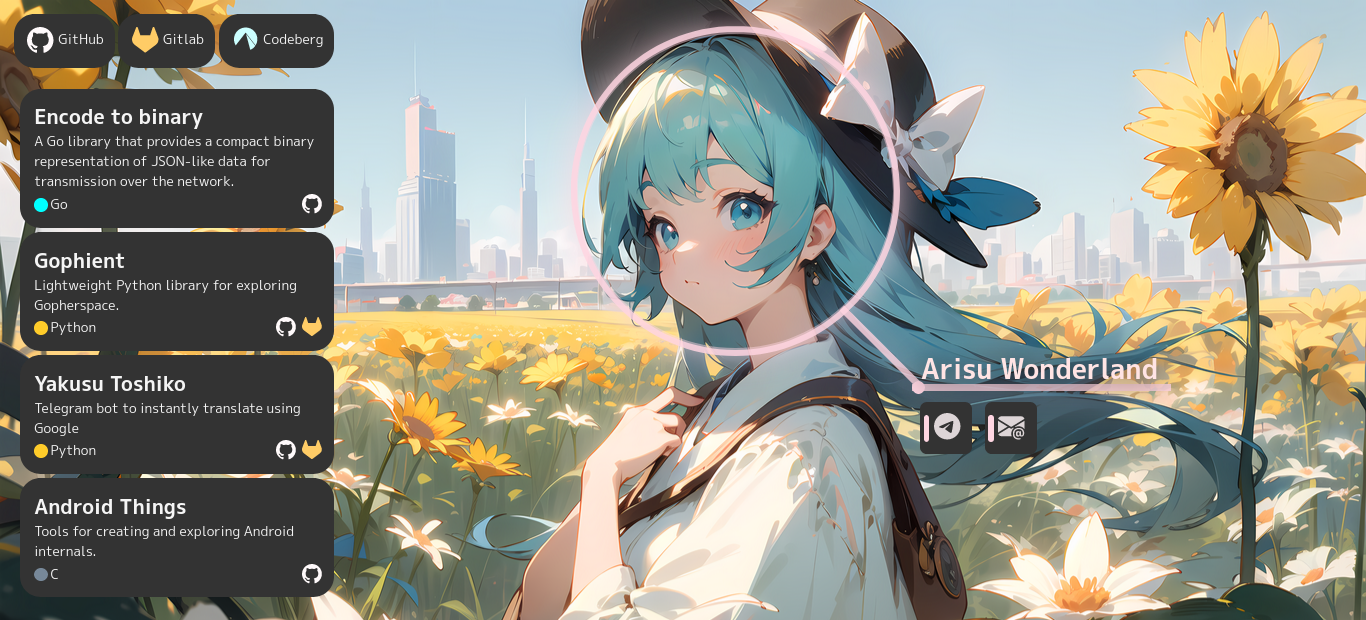
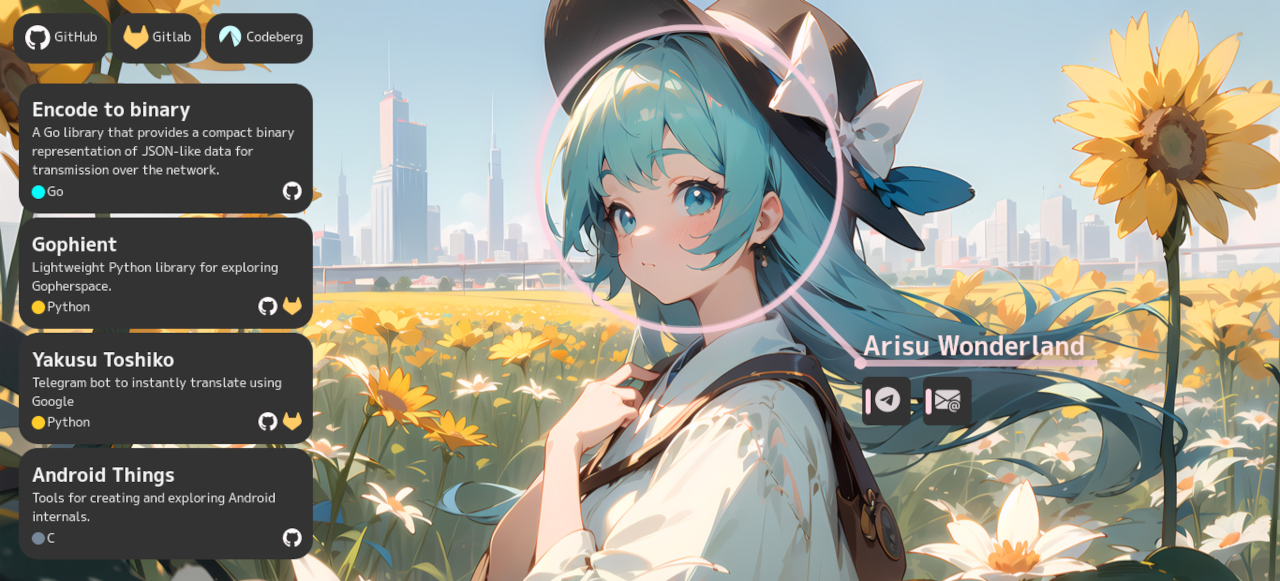
Support mobile devices

diff --git a/index.html b/index.html
@@ -24,6 +24,7 @@ along with this program.  If not, see <https://www.gnu.org/licenses/>.
         <meta http-equiv="X-UA-Compatible" content="ie=edge">
         <title>Arisu Wonderland</title>
         <link rel="stylesheet" href="static/css/index.sass">
+        <link rel="stylesheet" href="static/css/mobile.sass">
         <link rel="apple-touch-icon" sizes="180x180" href="/apple-touch-icon.png?v=2">
         <link rel="icon" type="image/png" sizes="32x32" href="/favicon-32x32.png?v=2">
         <link rel="icon" type="image/png" sizes="16x16" href="/favicon-16x16.png?v=2">
@@ -36,20 +37,26 @@ along with this program.  If not, see <https://www.gnu.org/licenses/>.
         <meta name="theme-color" content="#603cba">
     </head>
     <body>
+        <svg id="arichr-glyph-cc-by-sa" width="125.333" height="100" viewBox="-1.6 -1.6 97 79">
+            <defs>
+                <filter id="glyph-filter" x="-.0847" y="-.106" width="1.17" height="1.21" color-interpolation-filters="sRGB"><feGaussianBlur stdDeviation="2.66991"/>
+            </defs>
+            <path class="shadow" filter="url(#glyph-filter)" d="M63.35 37.45V36.2a98.917 98.917 0 0 1 .013-.492c.048-1.656.116-1.954.437-3.008a348.176 348.176 0 0 0 .643-2.07l1.932-7.61a5.799 5.799 0 0 0 .025-.52c0-.55-.1-.95-.3-1.25a1.375 1.375 0 0 0-.42-.392 1.135 1.135 0 0 0-.58-.158 1.303 1.303 0 0 0-.643.177 1.89 1.89 0 0 0-.4.308 2.367 2.367 0 0 0-.107.115 7.026 7.026 0 0 0-1.017 1.775c-.683 1.615-1.258 3.92-1.652 6.621a56.223 56.223 0 0 0-.531 5.954l-.05 1.9-.75 2.1c-2.934 8.322-6.748 17.154-9.17 21.195a22.871 22.871 0 0 1-.28.455 15.322 15.322 0 0 1-.263.373c-.74 1.019-1.715 2.127-1.937 2.127-.45 0-1.25-3.45-1.85-8.15-.5-3.95-.75-8-.75-12.55a147.265 147.265 0 0 1 .176-6.992l.393-6.202a259.75 259.75 0 0 1 .181-2.206 477.602 477.602 0 0 1 .193-1.963c.338-3.385.775-7.392 1.107-9.637a143.314 143.314 0 0 0 .139-.924l.203-1.453a1.135 1.135 0 0 0 .008-.073.128.128 0 0 1 .082-.119.4.4 0 0 1 .168-.031c.302 0 .381-.297.397-1.181a26.341 26.341 0 0 0 .003-.469 19.015 19.015 0 0 0-.017-.288c-.047-.685-.111-.784-.333-.962-.197-.147-.394-.247-.543-.25a.344.344 0 0 0-.007 0 .761.761 0 0 0-.35.093c-.083.043-.167.1-.25.17a2.232 2.232 0 0 0-.15.137c-1.631 1.73-3.751 17.24-4.041 29.864a133.654 133.654 0 0 0-.009.436v.65c0 3.45.3 9.8.65 12.3 1 7.65 2.1 11.2 3.65 11.8a3.465 3.465 0 0 0 .408.085A1.888 1.888 0 0 0 48 65.9c.4 0 .8-.1 1.15-.25 2.021-1.033 5.542-7.852 9.777-18.961a261.067 261.067 0 0 0 .823-2.189l1.1-3 .05 1.65c.273 8.182 2.777 19.174 5.709 25.838a30.514 30.514 0 0 0 .891 1.862 20.7 20.7 0 0 0 .409.749c.739 1.286 1.468 2.189 2.229 2.739a3.461 3.461 0 0 0 1.162.562 1.799 1.799 0 0 0 .217.058c.176.035.342.041.523.042a20.539 20.539 0 0 0 .11 0 3.631 3.631 0 0 0 1.573-.382c1.873-.897 3.786-3.347 5.488-7.131A40.65 40.65 0 0 0 80.3 64.8a96.707 96.707 0 0 0 3.207-10.336 87.505 87.505 0 0 0 1.343-6.314 251.025 251.025 0 0 0 .455-2.678c.962-5.863 1.696-11.726 2.695-21.322a673.588 673.588 0 0 0 .748-7.627c.506-5.493.825-9.828.946-12.59a49.374 49.374 0 0 0 .056-2.083v-.8a209.422 209.422 0 0 0-.013-.14c-.078-.81-.097-.899-.302-.908A1.849 1.849 0 0 0 89.35 0a.526.526 0 0 0-.137.013c-.122.034-.166.154-.202.556A10.112 10.112 0 0 0 89 .7a6664.137 6664.137 0 0 1-.694 6.79L85.85 30.6c-.667 5.862-1.834 13.495-2.764 18.138a84.434 84.434 0 0 1-.136.662c-1.432 6.885-4.103 14.794-6.276 18.836a17.939 17.939 0 0 1-.524.914 16.652 16.652 0 0 1-.712 1.023c-.982 1.302-2.011 2.238-2.782 2.502a1.264 1.264 0 0 1-.406.075c-.547 0-1.044-.445-1.738-1.482a14.197 14.197 0 0 1-.012-.018c-2.5-3.85-5.4-14.1-6.55-23.2a36.816 36.816 0 0 1-.139-1.201 111 111 0 0 1-.459-8.87 62.594 62.594 0 0 1-.002-.529zM30 37.15l-.7.1.1-3.65a139.105 139.105 0 0 0 .062-1.981l.087-7.481a434.787 434.787 0 0 0 .001-.788 371.654 371.654 0 0 0-.017-3.55c-.033-3.412-.108-6.262-.183-7.2-.436-5.318-1.176-8.774-2.286-10.666a5.197 5.197 0 0 0-.514-.734C26 .6 25.6.35 24.9.35c-1.15 0-2 .75-3.05 2.6a15.334 15.334 0 0 0-.268.491c-.959 1.829-1.919 4.531-3.928 11.177A733.808 733.808 0 0 0 16.7 17.8l-4.48 14.41a4891.822 4891.822 0 0 1-.27.84 2055.192 2055.192 0 0 0-.691 2.114l-1.207 3.788a3.924 3.924 0 0 0-.052.198l-.25.75h-.8c-.392 0-1-.092-1.751-.277a18.149 18.149 0 0 1-.649-.173c-1.907-.489-2.667-.643-4.243-.743A37.284 37.284 0 0 0 2.2 38.7a7.807 7.807 0 0 0-.394-.033c-.135-.008-.26-.013-.377-.015a18.543 18.543 0 0 0-.329-.002 3.634 3.634 0 0 0-.326.014c-.232.021-.403.067-.527.138A.521.521 0 0 0 0 39.1v.15a.688.688 0 0 0 .257.546c.148.13.365.248.669.363a6.431 6.431 0 0 0 .424.141c1.016.352 2.031.551 3.452.693A43.929 43.929 0 0 0 6.1 41.1a31.03 31.03 0 0 1 .975.106c1.066.134 1.78.299 1.975.494v.05c0 .2-.2 1-.45 1.95a404.31 404.31 0 0 0-2.622 9.693A127.039 127.039 0 0 0 5.7 54.5a138.642 138.642 0 0 0-.255 1.014c-.958 3.866-1.916 8.379-2.033 9.465a1.719 1.719 0 0 0-.012.171v.05a.527.527 0 0 0 .099.221c.074.096.178.157.287.174a.408.408 0 0 0 .064.005.416.416 0 0 0 .232-.077.632.632 0 0 0 .168-.173c.092-.137.393-1.325.713-2.754a92.649 92.649 0 0 0 .087-.396 251.235 251.235 0 0 1 .587-2.504C7.451 52.129 10.136 42.2 10.45 42.2a.737.737 0 0 1 .203.048c.725.244 2.841 1.387 4.039 2.151a15.599 15.599 0 0 1 .158.101 21.356 21.356 0 0 1 6.882 7.798 26.218 26.218 0 0 1 2.518 7.052 47.693 47.693 0 0 1 .117.627c.238 1.329.508 3.094.664 4.398A33.391 33.391 0 0 1 25.1 65a49.832 49.832 0 0 0 .022.141c.087.554.147.824.378 1.009a1.074 1.074 0 0 0 .604.286 1.338 1.338 0 0 0 .196.014 1.386 1.386 0 0 0 .23-.019.997.997 0 0 0 .62-.331c.374-.421.355-.36.76-4.654A1286.61 1286.61 0 0 1 28 60.5a295.697 295.697 0 0 0 .313-3.6c.427-5.293.715-10.587.837-15.15l.135-2.71a.826.826 0 0 1 .015-.09l.05-.35 2.05-.4 2.231-.481a.997.997 0 0 0 .069-.019c.121-.06.205-.139.253-.225A.358.358 0 0 0 34 37.3a.467.467 0 0 0-.037-.19c-.046-.103-.133-.177-.263-.21a.165.165 0 0 1-.023-.002c-.043-.006-.114-.025-.196-.037a.902.902 0 0 0-.131-.011c-.448 0-1.18.072-2.066.165A663.199 663.199 0 0 1 30 37.15zM26.85 19.7v3a1314.475 1314.475 0 0 1-.039 2.216L26.51 37.55a.523.523 0 0 1-.01.1 1.482 1.482 0 0 0-.089.012l-2.656.402a703.934 703.934 0 0 1-.905.136 184.925 184.925 0 0 0-.821.105l-6.14.846a280.193 280.193 0 0 0-.339.049 421.78 421.78 0 0 1-.941.139c-2.035.297-2.959.411-3.309.411a8.594 8.594 0 0 1-.052 0c-.058 0-.096-.002-.119-.01a.038.038 0 0 1-.029-.04.69.69 0 0 1 .023-.084c.094-.316.473-1.469.905-2.87a140.351 140.351 0 0 0 .122-.396 8447.961 8447.961 0 0 0 .788-2.467L17.35 19.85a2595.258 2595.258 0 0 1 .92-2.964c2.297-7.382 2.95-9.283 3.879-11.184A31.948 31.948 0 0 1 22.4 5.2a37.313 37.313 0 0 1 .295-.579c.436-.834.761-1.348 1.147-1.764A4.46 4.46 0 0 1 24.1 2.6a7.197 7.197 0 0 0 .004-.003c.188-.151.319-.272.415-.322a.181.181 0 0 1 .081-.025.218.218 0 0 1 .143.055c.072.059.14.167.221.324A5.774 5.774 0 0 1 25 2.7a9.558 9.558 0 0 1 .728 2.07c.628 2.533.988 6.477 1.091 11.643a164.956 164.956 0 0 1 .031 3.287zm-.7 19.4l.35-.05-.05 1.1-.546 11.605a247.67 247.67 0 0 1-.054.945c-.1 1.95-.25 3.65-.3 3.8 0 .048 0 .05-.044.05a2.743 2.743 0 0 1-.006 0c-.05 0-.15-.3-.4-1.05a21.502 21.502 0 0 0-.762-1.923c-.177-.392-.367-.786-.569-1.181A27.559 27.559 0 0 0 19.5 46.25a20.192 20.192 0 0 0-4.31-3.368 31.479 31.479 0 0 0-1.79-.982c-.755-.377-1.377-.71-1.444-.83a.04.04 0 0 1-.006-.02.513.513 0 0 1 .005-.001c.026-.006.143-.033.28-.044A1.426 1.426 0 0 1 12.35 41a3.079 3.079 0 0 0 .226-.02c1.645-.183 11.298-1.538 13.273-1.833a21.79 21.79 0 0 0 .301-.047zm9.8 13.2v.35a1.928 1.928 0 0 0 .003.117c.013.215.068.319.197.533a1.246 1.246 0 0 0 .204.168.795.795 0 0 0 .446.132.791.791 0 0 0 .224-.033c.346-.103.693-.431.865-.892A1.785 1.785 0 0 0 38 52.05a1.365 1.365 0 0 0-.055-.404c-.121-.389-.434-.596-.895-.596-.645 0-.993.34-1.083 1.059a2.944 2.944 0 0 0-.017.191zm55.55 0v.35a1.928 1.928 0 0 0 .003.117c.013.215.068.319.197.533a1.246 1.246 0 0 0 .204.168.795.795 0 0 0 .446.132.791.791 0 0 0 .224-.033c.346-.103.693-.431.865-.892a1.785 1.785 0 0 0 .111-.625 1.365 1.365 0 0 0-.055-.404c-.121-.389-.434-.596-.895-.596-.645 0-.993.34-1.083 1.059a2.944 2.944 0 0 0-.017.191z"/>
+            <path d="M63.35 37.45V36.2a98.917 98.917 0 0 1 .013-.492c.048-1.656.116-1.954.437-3.008a348.176 348.176 0 0 0 .643-2.07l1.932-7.61a5.799 5.799 0 0 0 .025-.52c0-.55-.1-.95-.3-1.25a1.375 1.375 0 0 0-.42-.392 1.135 1.135 0 0 0-.58-.158 1.303 1.303 0 0 0-.643.177 1.89 1.89 0 0 0-.4.308 2.367 2.367 0 0 0-.107.115 7.026 7.026 0 0 0-1.017 1.775c-.683 1.615-1.258 3.92-1.652 6.621a56.223 56.223 0 0 0-.531 5.954l-.05 1.9-.75 2.1c-2.934 8.322-6.748 17.154-9.17 21.195a22.871 22.871 0 0 1-.28.455 15.322 15.322 0 0 1-.263.373c-.74 1.019-1.715 2.127-1.937 2.127-.45 0-1.25-3.45-1.85-8.15-.5-3.95-.75-8-.75-12.55a147.265 147.265 0 0 1 .176-6.992l.393-6.202a259.75 259.75 0 0 1 .181-2.206 477.602 477.602 0 0 1 .193-1.963c.338-3.385.775-7.392 1.107-9.637a143.314 143.314 0 0 0 .139-.924l.203-1.453a1.135 1.135 0 0 0 .008-.073.128.128 0 0 1 .082-.119.4.4 0 0 1 .168-.031c.302 0 .381-.297.397-1.181a26.341 26.341 0 0 0 .003-.469 19.015 19.015 0 0 0-.017-.288c-.047-.685-.111-.784-.333-.962-.197-.147-.394-.247-.543-.25a.344.344 0 0 0-.007 0 .761.761 0 0 0-.35.093c-.083.043-.167.1-.25.17a2.232 2.232 0 0 0-.15.137c-1.631 1.73-3.751 17.24-4.041 29.864a133.654 133.654 0 0 0-.009.436v.65c0 3.45.3 9.8.65 12.3 1 7.65 2.1 11.2 3.65 11.8a3.465 3.465 0 0 0 .408.085A1.888 1.888 0 0 0 48 65.9c.4 0 .8-.1 1.15-.25 2.021-1.033 5.542-7.852 9.777-18.961a261.067 261.067 0 0 0 .823-2.189l1.1-3 .05 1.65c.273 8.182 2.777 19.174 5.709 25.838a30.514 30.514 0 0 0 .891 1.862 20.7 20.7 0 0 0 .409.749c.739 1.286 1.468 2.189 2.229 2.739a3.461 3.461 0 0 0 1.162.562 1.799 1.799 0 0 0 .217.058c.176.035.342.041.523.042a20.539 20.539 0 0 0 .11 0 3.631 3.631 0 0 0 1.573-.382c1.873-.897 3.786-3.347 5.488-7.131A40.65 40.65 0 0 0 80.3 64.8a96.707 96.707 0 0 0 3.207-10.336 87.505 87.505 0 0 0 1.343-6.314 251.025 251.025 0 0 0 .455-2.678c.962-5.863 1.696-11.726 2.695-21.322a673.588 673.588 0 0 0 .748-7.627c.506-5.493.825-9.828.946-12.59a49.374 49.374 0 0 0 .056-2.083v-.8a209.422 209.422 0 0 0-.013-.14c-.078-.81-.097-.899-.302-.908A1.849 1.849 0 0 0 89.35 0a.526.526 0 0 0-.137.013c-.122.034-.166.154-.202.556A10.112 10.112 0 0 0 89 .7a6664.137 6664.137 0 0 1-.694 6.79L85.85 30.6c-.667 5.862-1.834 13.495-2.764 18.138a84.434 84.434 0 0 1-.136.662c-1.432 6.885-4.103 14.794-6.276 18.836a17.939 17.939 0 0 1-.524.914 16.652 16.652 0 0 1-.712 1.023c-.982 1.302-2.011 2.238-2.782 2.502a1.264 1.264 0 0 1-.406.075c-.547 0-1.044-.445-1.738-1.482a14.197 14.197 0 0 1-.012-.018c-2.5-3.85-5.4-14.1-6.55-23.2a36.816 36.816 0 0 1-.139-1.201 111 111 0 0 1-.459-8.87 62.594 62.594 0 0 1-.002-.529zM30 37.15l-.7.1.1-3.65a139.105 139.105 0 0 0 .062-1.981l.087-7.481a434.787 434.787 0 0 0 .001-.788 371.654 371.654 0 0 0-.017-3.55c-.033-3.412-.108-6.262-.183-7.2-.436-5.318-1.176-8.774-2.286-10.666a5.197 5.197 0 0 0-.514-.734C26 .6 25.6.35 24.9.35c-1.15 0-2 .75-3.05 2.6a15.334 15.334 0 0 0-.268.491c-.959 1.829-1.919 4.531-3.928 11.177A733.808 733.808 0 0 0 16.7 17.8l-4.48 14.41a4891.822 4891.822 0 0 1-.27.84 2055.192 2055.192 0 0 0-.691 2.114l-1.207 3.788a3.924 3.924 0 0 0-.052.198l-.25.75h-.8c-.392 0-1-.092-1.751-.277a18.149 18.149 0 0 1-.649-.173c-1.907-.489-2.667-.643-4.243-.743A37.284 37.284 0 0 0 2.2 38.7a7.807 7.807 0 0 0-.394-.033c-.135-.008-.26-.013-.377-.015a18.543 18.543 0 0 0-.329-.002 3.634 3.634 0 0 0-.326.014c-.232.021-.403.067-.527.138A.521.521 0 0 0 0 39.1v.15a.688.688 0 0 0 .257.546c.148.13.365.248.669.363a6.431 6.431 0 0 0 .424.141c1.016.352 2.031.551 3.452.693A43.929 43.929 0 0 0 6.1 41.1a31.03 31.03 0 0 1 .975.106c1.066.134 1.78.299 1.975.494v.05c0 .2-.2 1-.45 1.95a404.31 404.31 0 0 0-2.622 9.693A127.039 127.039 0 0 0 5.7 54.5a138.642 138.642 0 0 0-.255 1.014c-.958 3.866-1.916 8.379-2.033 9.465a1.719 1.719 0 0 0-.012.171v.05a.527.527 0 0 0 .099.221c.074.096.178.157.287.174a.408.408 0 0 0 .064.005.416.416 0 0 0 .232-.077.632.632 0 0 0 .168-.173c.092-.137.393-1.325.713-2.754a92.649 92.649 0 0 0 .087-.396 251.235 251.235 0 0 1 .587-2.504C7.451 52.129 10.136 42.2 10.45 42.2a.737.737 0 0 1 .203.048c.725.244 2.841 1.387 4.039 2.151a15.599 15.599 0 0 1 .158.101 21.356 21.356 0 0 1 6.882 7.798 26.218 26.218 0 0 1 2.518 7.052 47.693 47.693 0 0 1 .117.627c.238 1.329.508 3.094.664 4.398A33.391 33.391 0 0 1 25.1 65a49.832 49.832 0 0 0 .022.141c.087.554.147.824.378 1.009a1.074 1.074 0 0 0 .604.286 1.338 1.338 0 0 0 .196.014 1.386 1.386 0 0 0 .23-.019.997.997 0 0 0 .62-.331c.374-.421.355-.36.76-4.654A1286.61 1286.61 0 0 1 28 60.5a295.697 295.697 0 0 0 .313-3.6c.427-5.293.715-10.587.837-15.15l.135-2.71a.826.826 0 0 1 .015-.09l.05-.35 2.05-.4 2.231-.481a.997.997 0 0 0 .069-.019c.121-.06.205-.139.253-.225A.358.358 0 0 0 34 37.3a.467.467 0 0 0-.037-.19c-.046-.103-.133-.177-.263-.21a.165.165 0 0 1-.023-.002c-.043-.006-.114-.025-.196-.037a.902.902 0 0 0-.131-.011c-.448 0-1.18.072-2.066.165A663.199 663.199 0 0 1 30 37.15zM26.85 19.7v3a1314.475 1314.475 0 0 1-.039 2.216L26.51 37.55a.523.523 0 0 1-.01.1 1.482 1.482 0 0 0-.089.012l-2.656.402a703.934 703.934 0 0 1-.905.136 184.925 184.925 0 0 0-.821.105l-6.14.846a280.193 280.193 0 0 0-.339.049 421.78 421.78 0 0 1-.941.139c-2.035.297-2.959.411-3.309.411a8.594 8.594 0 0 1-.052 0c-.058 0-.096-.002-.119-.01a.038.038 0 0 1-.029-.04.69.69 0 0 1 .023-.084c.094-.316.473-1.469.905-2.87a140.351 140.351 0 0 0 .122-.396 8447.961 8447.961 0 0 0 .788-2.467L17.35 19.85a2595.258 2595.258 0 0 1 .92-2.964c2.297-7.382 2.95-9.283 3.879-11.184A31.948 31.948 0 0 1 22.4 5.2a37.313 37.313 0 0 1 .295-.579c.436-.834.761-1.348 1.147-1.764A4.46 4.46 0 0 1 24.1 2.6a7.197 7.197 0 0 0 .004-.003c.188-.151.319-.272.415-.322a.181.181 0 0 1 .081-.025.218.218 0 0 1 .143.055c.072.059.14.167.221.324A5.774 5.774 0 0 1 25 2.7a9.558 9.558 0 0 1 .728 2.07c.628 2.533.988 6.477 1.091 11.643a164.956 164.956 0 0 1 .031 3.287zm-.7 19.4l.35-.05-.05 1.1-.546 11.605a247.67 247.67 0 0 1-.054.945c-.1 1.95-.25 3.65-.3 3.8 0 .048 0 .05-.044.05a2.743 2.743 0 0 1-.006 0c-.05 0-.15-.3-.4-1.05a21.502 21.502 0 0 0-.762-1.923c-.177-.392-.367-.786-.569-1.181A27.559 27.559 0 0 0 19.5 46.25a20.192 20.192 0 0 0-4.31-3.368 31.479 31.479 0 0 0-1.79-.982c-.755-.377-1.377-.71-1.444-.83a.04.04 0 0 1-.006-.02.513.513 0 0 1 .005-.001c.026-.006.143-.033.28-.044A1.426 1.426 0 0 1 12.35 41a3.079 3.079 0 0 0 .226-.02c1.645-.183 11.298-1.538 13.273-1.833a21.79 21.79 0 0 0 .301-.047zm9.8 13.2v.35a1.928 1.928 0 0 0 .003.117c.013.215.068.319.197.533a1.246 1.246 0 0 0 .204.168.795.795 0 0 0 .446.132.791.791 0 0 0 .224-.033c.346-.103.693-.431.865-.892A1.785 1.785 0 0 0 38 52.05a1.365 1.365 0 0 0-.055-.404c-.121-.389-.434-.596-.895-.596-.645 0-.993.34-1.083 1.059a2.944 2.944 0 0 0-.017.191zm55.55 0v.35a1.928 1.928 0 0 0 .003.117c.013.215.068.319.197.533a1.246 1.246 0 0 0 .204.168.795.795 0 0 0 .446.132.791.791 0 0 0 .224-.033c.346-.103.693-.431.865-.892a1.785 1.785 0 0 0 .111-.625 1.365 1.365 0 0 0-.055-.404c-.121-.389-.434-.596-.895-.596-.645 0-.993.34-1.083 1.059a2.944 2.944 0 0 0-.017.191z"/>
+        </svg>
         <div id="faceid" style="display: none">
             <div class="arrow-1"></div>
             <div class="arrow-2"></div>
             <span class="arrow-text">Arisu Wonderland</span>
             <div id="social-grid">
-                <a href="https://t.me/arisuchr" target="_blank">
-                    <svg viewBox="0 0 16.5 16.5">
-                        <path d="M16 8A8 8 0 1 1 0 8a8 8 0 0 1 16 0zM8.287 5.906c-.778.324-2.334.994-4.666 2.01-.378.15-.577.298-.595.442-.03.243.275.339.69.47l.175.055c.408.133.958.288 1.243.294.26.006.549-.1.868-.32 2.179-1.471 3.304-2.214 3.374-2.23.05-.012.12-.026.166.016.047.041.042.12.037.141-.03.129-1.227 1.241-1.846 1.817-.193.18-.33.307-.358.336a8.154 8.154 0 0 1-.188.186c-.38.366-.664.64.015 1.088.327.216.589.393.85.571.284.194.568.387.936.629.093.06.183.125.27.187.331.236.63.448.997.414.214-.02.435-.22.547-.82.265-1.417.786-4.486.906-5.751a1.426 1.426 0 0 0-.013-.315.337.337 0 0 0-.114-.217.526.526 0 0 0-.31-.093c-.3.005-.763.166-2.984 1.09z"/>
+                <a href="https://t.me/arisuchr" title="Telegram" target="_blank">
+                    <svg viewBox="0 0 24 24">
+                        <path d="M11.944 0A12 12 0 0 0 0 12a12 12 0 0 0 12 12 12 12 0 0 0 12-12A12 12 0 0 0 12 0a12 12 0 0 0-.056 0zm4.962 7.224c.1-.002.321.023.465.14a.506.506 0 0 1 .171.325c.016.093.036.306.02.472-.18 1.898-.962 6.502-1.36 8.627-.168.9-.499 1.201-.82 1.23-.696.065-1.225-.46-1.9-.902-1.056-.693-1.653-1.124-2.678-1.8-1.185-.78-.417-1.21.258-1.91.177-.184 3.247-2.977 3.307-3.23.007-.032.014-.15-.056-.212s-.174-.041-.249-.024c-.106.024-1.793 1.14-5.061 3.345-.48.33-.913.49-1.302.48-.428-.008-1.252-.241-1.865-.44-.752-.245-1.349-.374-1.297-.789.027-.216.325-.437.893-.663 3.498-1.524 5.83-2.529 6.998-3.014 3.332-1.386 4.025-1.627 4.476-1.635z"/>
                     </svg>
                 </a>
-                <a href="mailto:arisuchr@riseup.net" target="_blank">
-                    <svg viewBox="0 0 16.5 16.5">
-                        <path d="M2 2A2 2 0 0 0 .05 3.555L8 8.414l7.95-4.859A2 2 0 0 0 14 2H2Zm-2 9.8V4.698l5.803 3.546L0 11.801Zm6.761-2.97-6.57 4.026A2 2 0 0 0 2 14h6.256A4.493 4.493 0 0 1 8 12.5a4.49 4.49 0 0 1 1.606-3.446l-.367-.225L8 9.586l-1.239-.757ZM16 9.671V4.697l-5.803 3.546.338.208A4.482 4.482 0 0 1 12.5 8c1.414 0 2.675.652 3.5 1.671Z"/>
-                        <path d="M15.834 12.244c0 1.168-.577 2.025-1.587 2.025-.503 0-1.002-.228-1.12-.648h-.043c-.118.416-.543.643-1.015.643-.77 0-1.259-.542-1.259-1.434v-.529c0-.844.481-1.4 1.26-1.4.585 0 .87.333.953.63h.03v-.568h.905v2.19c0 .272.18.42.411.42.315 0 .639-.415.639-1.39v-.118c0-1.277-.95-2.326-2.484-2.326h-.04c-1.582 0-2.64 1.067-2.64 2.724v.157c0 1.867 1.237 2.654 2.57 2.654h.045c.507 0 .935-.07 1.18-.18v.731c-.219.1-.643.175-1.237.175h-.044C10.438 16 9 14.82 9 12.646v-.214C9 10.36 10.421 9 12.485 9h.035c2.12 0 3.314 1.43 3.314 3.034v.21Zm-4.04.21v.227c0 .586.227.8.581.8.31 0 .564-.17.564-.743v-.367c0-.516-.275-.708-.572-.708-.346 0-.573.245-.573.791Z"/>
+                <a href="mailto:arisuchr@riseup.net" title="E-Mail" target="_blank">
+                    <svg viewBox="0 0 24 24">
+                        <path d="M24 5.457v13.909c0 .904-.732 1.636-1.636 1.636h-3.819V11.73L12 16.64l-6.545-4.91v9.273H1.636A1.636 1.636 0 0 1 0 19.366V5.457c0-2.023 2.309-3.178 3.927-1.964L5.455 4.64 12 9.548l6.545-4.91 1.528-1.145C21.69 2.28 24 3.434 24 5.457z"/>
                     </svg>
                 </a>
             </div>
@@ -112,7 +119,7 @@ along with this program.  If not, see <https://www.gnu.org/licenses/>.
                 <li>
                     <div class="container card">
                         <h2>Yakusu Toshiko</h2>
-                        <p>Telegram bot to instantly translate using Google</p>
+                        <p>Telegram bot to instantly translate using Google.</p>
                         <span class="language lang-python">Python</span>
                         <ul class="providers">
                             <li><a href="https://github.com/arichr/yakusubot" title="GitHub" target="_blank"><svg class="github-svg" viewbox="0 0 16.5 16.5">

diff --git a/static/css/mobile.sass b/static/css/mobile.sass
@@ -1,0 +1,80 @@
+// Arisu Wonderland's website.
+// Copyright (C) 2023  Arisu Wonderland
+//
+// This program is free software: you can redistribute it and/or modify
+// it under the terms of the GNU Affero General Public License as published
+// by the Free Software Foundation, either version 3 of the License, or
+// (at your option) any later version.
+//
+// This program is distributed in the hope that it will be useful,
+// but WITHOUT ANY WARRANTY; without even the implied warranty of
+// MERCHANTABILITY or FITNESS FOR A PARTICULAR PURPOSE.  See the
+// GNU Affero General Public License for more details.
+//
+// You should have received a copy of the GNU Affero General Public License
+// along with this program.  If not, see <https://www.gnu.org/licenses/>.
+
+@media screen and (max-width: 1200px)
+    html
+        font-size: initial
+
+    #arichr-glyph-cc-by-sa
+        $glyphColor: #ffe4e4
+        $shadowColor: #7f7f7f
+
+        display: block
+        margin: 1em auto
+        fill: $glyphColor
+        stroke: $glyphColor
+        stroke-width: 0.1em
+
+        & > .shadow
+            fill: $shadowColor
+            stroke: $shadowColor
+
+    #faceid
+        display: flex !important
+        flex-direction: column
+        align-items: center
+        width: auto !important
+        height: auto !important
+        outline: none
+        box-shadow: none
+
+        & > .arrow-1, & > .arrow-2, & > .arrow-text, #social-grid a::after
+            display: none
+
+        &, #social-grid
+            position: initial
+
+        & > .arrow-text
+            font-size: 2em
+            margin: 1em 0
+
+    .container, #social-grid svg
+        padding: 0.9em
+        border-radius: 0
+
+    main
+        display: flex
+        flex-direction: column
+        align-items: center
+        width: 100%
+        padding-top: 0
+
+    #git-grid span
+            display: none
+
+    #repos-list
+        overflow: initial
+
+    .card .providers
+        svg
+            height: 1.7em
+            width: 1.7em
+
+        li
+            margin-right: 0.5em
+
+            &:last-child
+                margin-right: 0

diff --git a/vite.config.js b/vite.config.js
@@ -1,4 +1,3 @@
-/** @type {import('vite').UserConfig} */
 import { createHtmlPlugin } from 'vite-plugin-html';
 import autoprefixer from 'autoprefixer';
 
@@ -8,9 +7,10 @@ const targets = [
     "chrome56",
     "edge15",
     "opera43",
-    "safari12" // safari10 - 'const' is not supported
+    "safari11" // safari10 - 'const' is not supported
 ];
 
+/** @type {import('vite').UserConfig} */
 export default {
     clearScreen: false,
     plugins: [

diff --git a/static/css/index.sass b/static/css/index.sass
@@ -38,8 +38,9 @@ body
     width: 100%
     height: 100vh
     color: whitesmoke
-    background: url('/bg.png') no-repeat top left
+    background: url('/bg.webp') no-repeat top left
     background-size: cover
+    background-attachment: fixed
     margin: 0
 
 ::-webkit-scrollbar
@@ -60,6 +61,9 @@ ul
     margin: 0
     padding: 0
     list-style: none
+
+#arichr-glyph-cc-by-sa
+    display: none
 
 #faceid
     $outlineWidth: 0.5em

diff --git a/README.md b/README.md
@@ -26,4 +26,4 @@ Before you create a new pull request, make sure that your changes:
 ## Attribution
 
 * **Simple Icons**: [simple-icons/simple-icons](https://github.com/simple-icons/simple-icons)
-* **Bootstrap icons**: [twbs/icons](https://github.com/twbs/icons)
+* **Bootstrap Icons**: [twbs/icons](https://github.com/twbs/icons)
